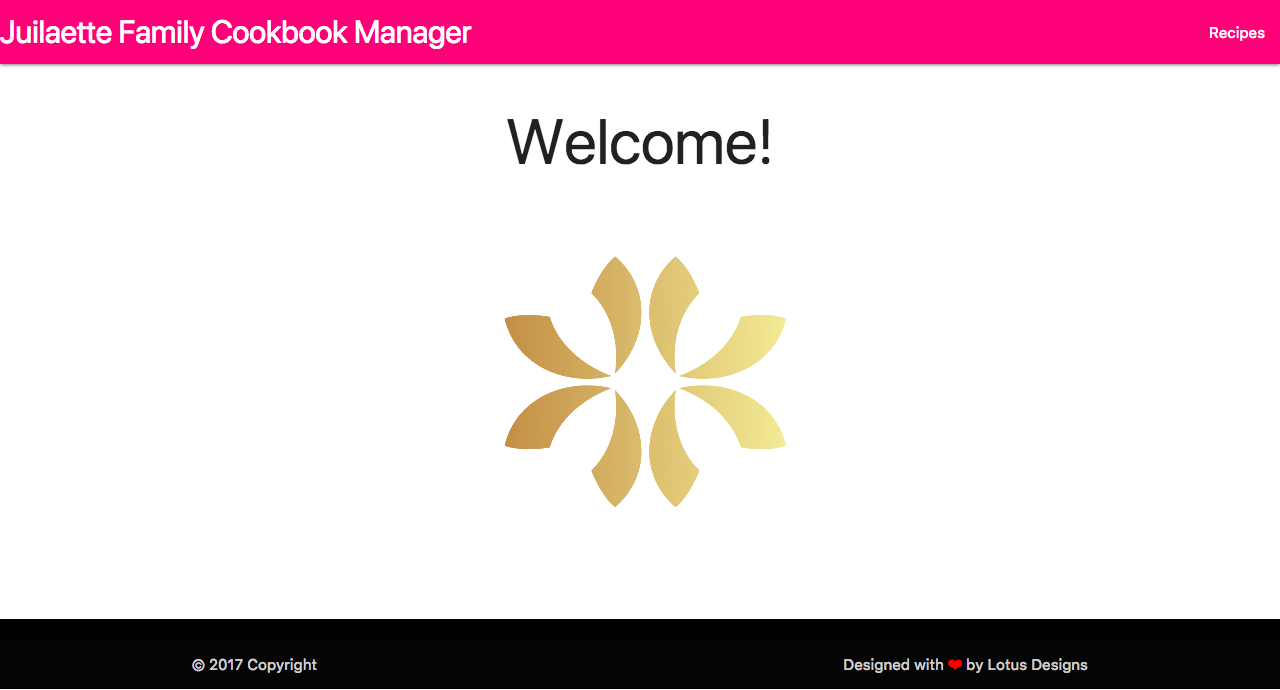
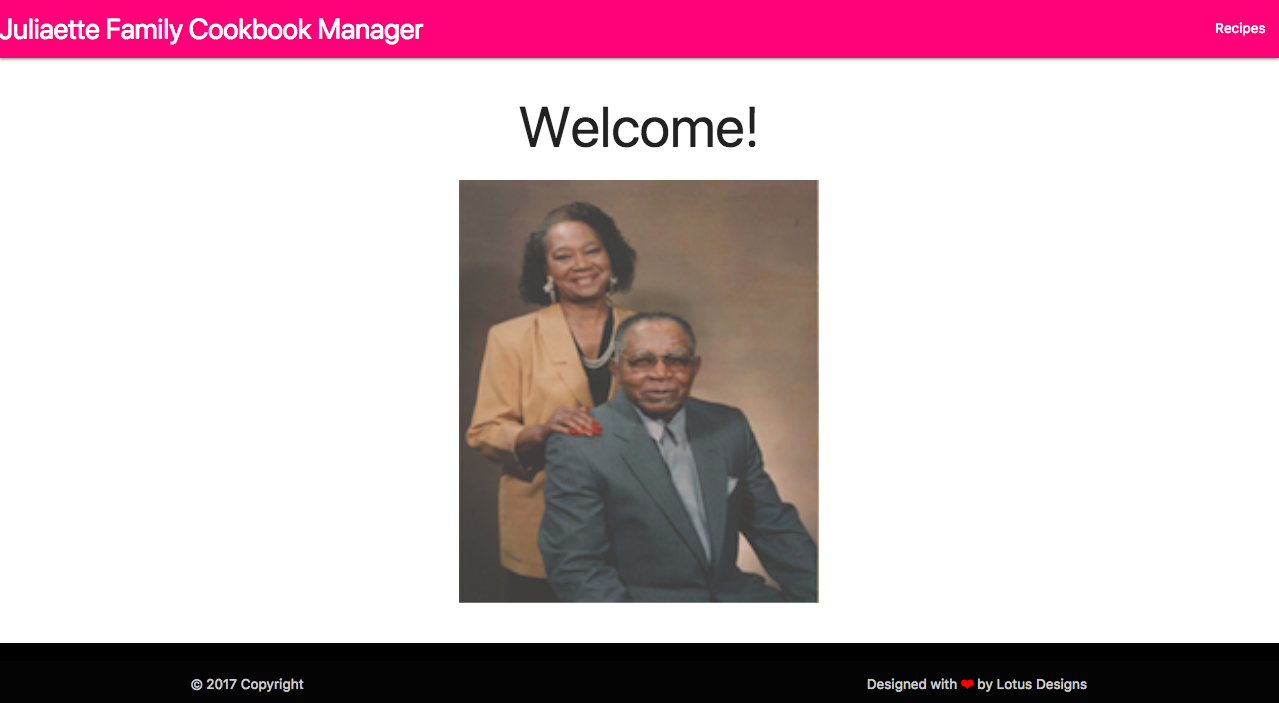
Updating README.md

diff --git a/README.md b/README.md
@@ -7,12 +7,15 @@ The Juliaette Family Cookbook Manager is a back end developed application develo
 To begin your Juliaette Family Cookbook Manager experience, please visit [StudyBuddy]( https://familycookbookmanager.herokuapp.com/.
 
 
-![Welcome Page](https://github.com/Kathy145/familyCookbookManager/blob/master/Planning/p2erd.jpg?raw=true "Welcome")
+![Welcome Page](https://github.com/Kathy145/familyCookbookManager/blob/master/public/img/Home%20-%20Juilaette%20Family%20Cookbook%20Manager.png?raw=true "Welcome")
 
 
 #### Instructions
 - Click on the recipes menu button to view and add your own recipes to the cookbook of your choice. 
 - To update an existing recipe, select the recipe and update the necessary items. 
+![Recipes View](https://github.com/Kathy145/familyCookbookManager/blob/master/public/img/Recipe%20View%20-%20Juliaette%20Family%20Cookbook%20Manager.png?raw=true "Recipes View")
+
+
 #### Contributions 
 
 Additional features are welcome via a pull request.  For example, the ability for student to add their own content and create customized flash cards.  Please be considerate, we try adhere to KISS (Keep It Stupid Simple) and DRY (Don't Repeat Yourself) principles.  Also, remember to use and follow [Sandi Metz's methodology](https://robots.thoughtbot.com/sandi-metz-rules-for-developers). 
